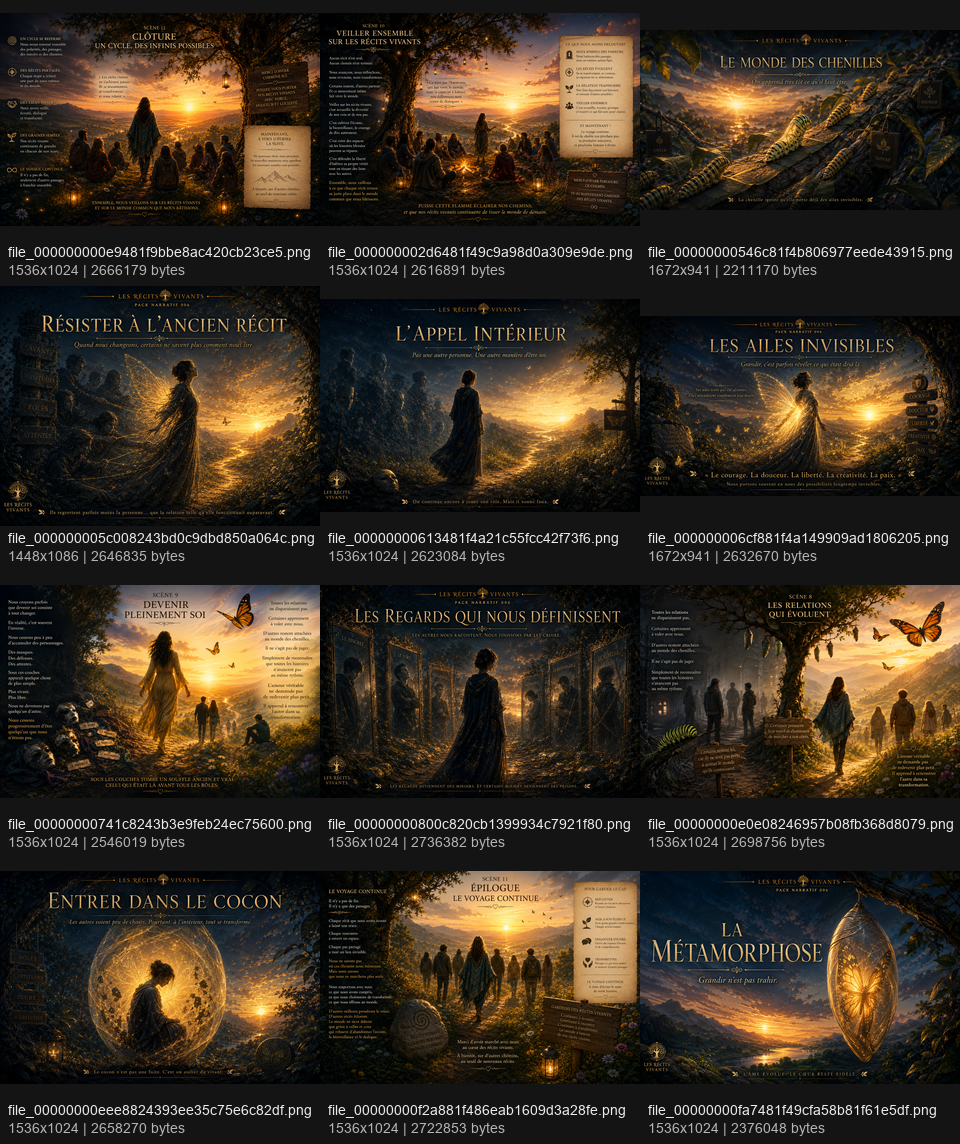
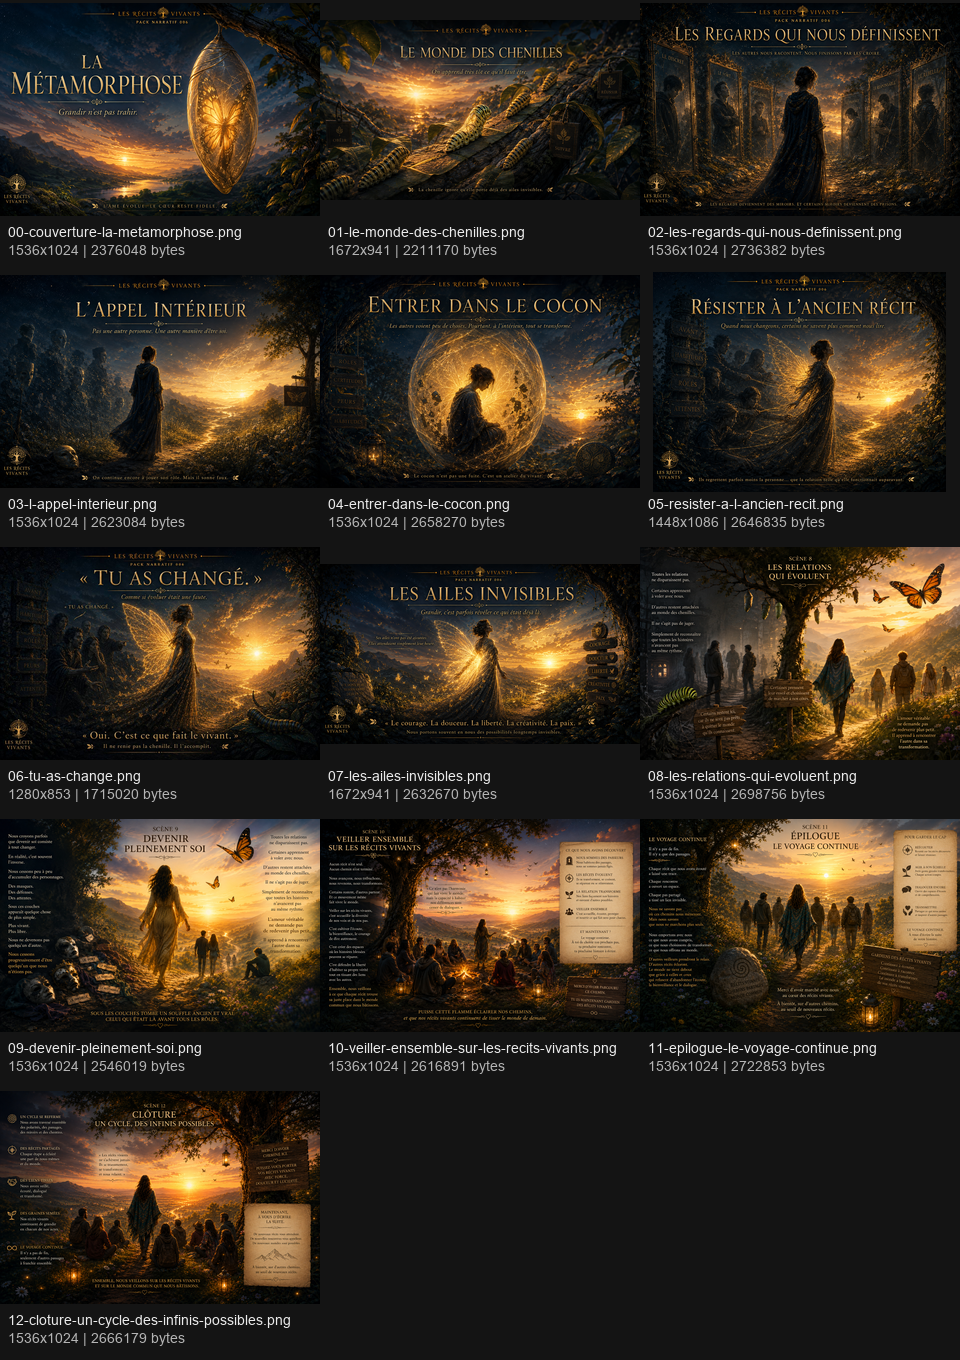
INE-024 add missing metamorphosis scene image

diff --git a/reports/INE-024_PACK_006_LA_METAMORPHOSE_REPORT.md b/reports/INE-024_PACK_006_LA_METAMORPHOSE_REPORT.md
@@ -21,7 +21,9 @@ Source fournie :
 
 `https://drive.google.com/drive/folders/1XnpYIlat7pLJqozGDA9s3P-H8pjaViZ1`
 
-Le dossier public Google Drive a été inspecté via la vue embarquée Drive. Il expose **12 fichiers PNG**, alors que la mission annonçait **13 images**.
+Le dossier public Google Drive a été inspecté via la vue embarquée Drive. Il exposait initialement **12 fichiers PNG**, alors que la mission annonçait **13 images**.
+
+Une image complémentaire a ensuite été fournie pour `scene-06` — **Tu as changé.** — et intégrée dans le même pack.
 
 Une planche de contrôle visuelle a été produite :
 
@@ -37,6 +39,7 @@ Une planche de contrôle visuelle a été produite :
 | `file_00000000613481f4a21c55fcc42f73f6.png` | `03-l-appel-interieur.png` | 1536×1024 | 2 623 084 | 271 254 |
 | `file_00000000eee8824393ee35c75e6c82df.png` | `04-entrer-dans-le-cocon.png` | 1536×1024 | 2 658 270 | 288 516 |
 | `file_000000005c008243bd0c9dbd850a064c.png` | `05-resister-a-l-ancien-recit.png` | 1448×1086 | 2 646 835 | 305 506 |
+| Image jointe INE-024 complémentaire | `06-tu-as-change.png` | 1280×853 | 1 715 020 | 198 558 |
 | `file_000000006cf881f4a149909ad1806205.png` | `07-les-ailes-invisibles.png` | 1672×941 | 2 632 670 | 317 058 |
 | `file_00000000e0e08246957b08fb368d8079.png` | `08-les-relations-qui-evoluent.png` | 1536×1024 | 2 698 756 | 289 252 |
 | `file_00000000741c8243b3e9feb24ec75600.png` | `09-devenir-pleinement-soi.png` | 1536×1024 | 2 546 019 | 277 946 |
@@ -44,28 +47,30 @@ Une planche de contrôle visuelle a été produite :
 | `file_00000000f2a881f486eab1609d3a28fe.png` | `11-epilogue-le-voyage-continue.png` | 1536×1024 | 2 722 853 | 317 848 |
 | `file_000000000e9481f9bbe8ac420cb23ce5.png` | `12-cloture-un-cycle-des-infinis-possibles.png` | 1536×1024 | 2 666 179 | 321 020 |
 
-Poids total PNG : **31 135 157 octets**  
-Poids total WebP : **3 429 544 octets**
+Poids total PNG : **32 850 177 octets**  
+Poids total WebP : **3 628 102 octets**
 
 ## Écart constaté
 
-L’image attendue pour :
+Lors de l’intégration initiale, l’image attendue pour :
 
 `06 — Scène 6 — “Tu as changé.”`
 
-n’est pas présente dans le dossier Drive public.
+n’était pas présente dans le dossier Drive public.
 
-Décision retenue :
+Décision initiale :
 
 - conserver la scène 06 dans le parcours ;
 - ne pas inventer ni réutiliser une image non officielle ;
 - laisser `scene-06` sans champ `image` dans `pack.json`, ce que le renderer narratif supporte déjà ;
 - documenter explicitement l’écart dans ce rapport et dans le README du pack.
 
-Si l’image officielle est fournie ultérieurement, elle devra être ajoutée sous :
+Correction complémentaire :
 
-- `assets/images/originals/06-tu-as-change.png` ;
-- `assets/images/06-tu-as-change.webp`.
+- l’image officielle jointe à la mission a été vérifiée visuellement ;
+- le PNG original a été conservé sous `assets/images/originals/06-tu-as-change.png` ;
+- le WebP optimisé a été généré sous `assets/images/06-tu-as-change.webp` ;
+- `scene-06` pointe maintenant vers cette image.
 
 ## Fichiers créés
 
@@ -129,4 +134,4 @@ PACK-001, PACK-002, PACK-003, PACK-004 et PACK-005 ne sont pas modifiés dans le
 
 ## Recommandation
 
-Fournir ultérieurement l’image officielle manquante `06-tu-as-change.png` si l’intention reste d’avoir 13 images réelles pour 13 étapes visuelles. Le pack reste fonctionnel sans cette image, mais le cycle visuel annoncé serait alors complet.
+Le cycle visuel est désormais complet : les 13 étapes disposent d’une image officielle ou d’une couverture/clôture officielle. Toute évolution future devra préserver cette nomenclature canonique.

diff --git a/packs/pack-006-la-metamorphose/README.md b/packs/pack-006-la-metamorphose/README.md
@@ -49,7 +49,7 @@ Route publique attendue :
 | 03 | L’appel intérieur | `03-l-appel-interieur.webp` |
 | 04 | Entrer dans le cocon | `04-entrer-dans-le-cocon.webp` |
 | 05 | Résister à l’ancien récit | `05-resister-a-l-ancien-recit.webp` |
-| 06 | Tu as changé. | Image dédiée absente du dossier Drive fourni |
+| 06 | Tu as changé. | `06-tu-as-change.webp` |
 | 07 | Les ailes invisibles | `07-les-ailes-invisibles.webp` |
 | 08 | Les relations qui évoluent | `08-les-relations-qui-evoluent.webp` |
 | 09 | Devenir pleinement soi | `09-devenir-pleinement-soi.webp` |
@@ -82,12 +82,7 @@ Pour remplacer une illustration :
 3. mettre à jour le champ `image` et le champ `imageAlt` de la scène concernée dans `pack.json` ;
 4. relancer les tests d’intégration du pack et le build.
 
-Si une image officielle pour `scene-06` — **Tu as changé.** — est fournie ultérieurement, elle devra suivre le nom :
-
-```text
-06-tu-as-change.png
-06-tu-as-change.webp
-```
+L’image officielle de `scene-06` — **Tu as changé.** — a été ajoutée après la première intégration INE-024 sous `06-tu-as-change.png` et `06-tu-as-change.webp`.
 
 ## Compatibilité INE
 
